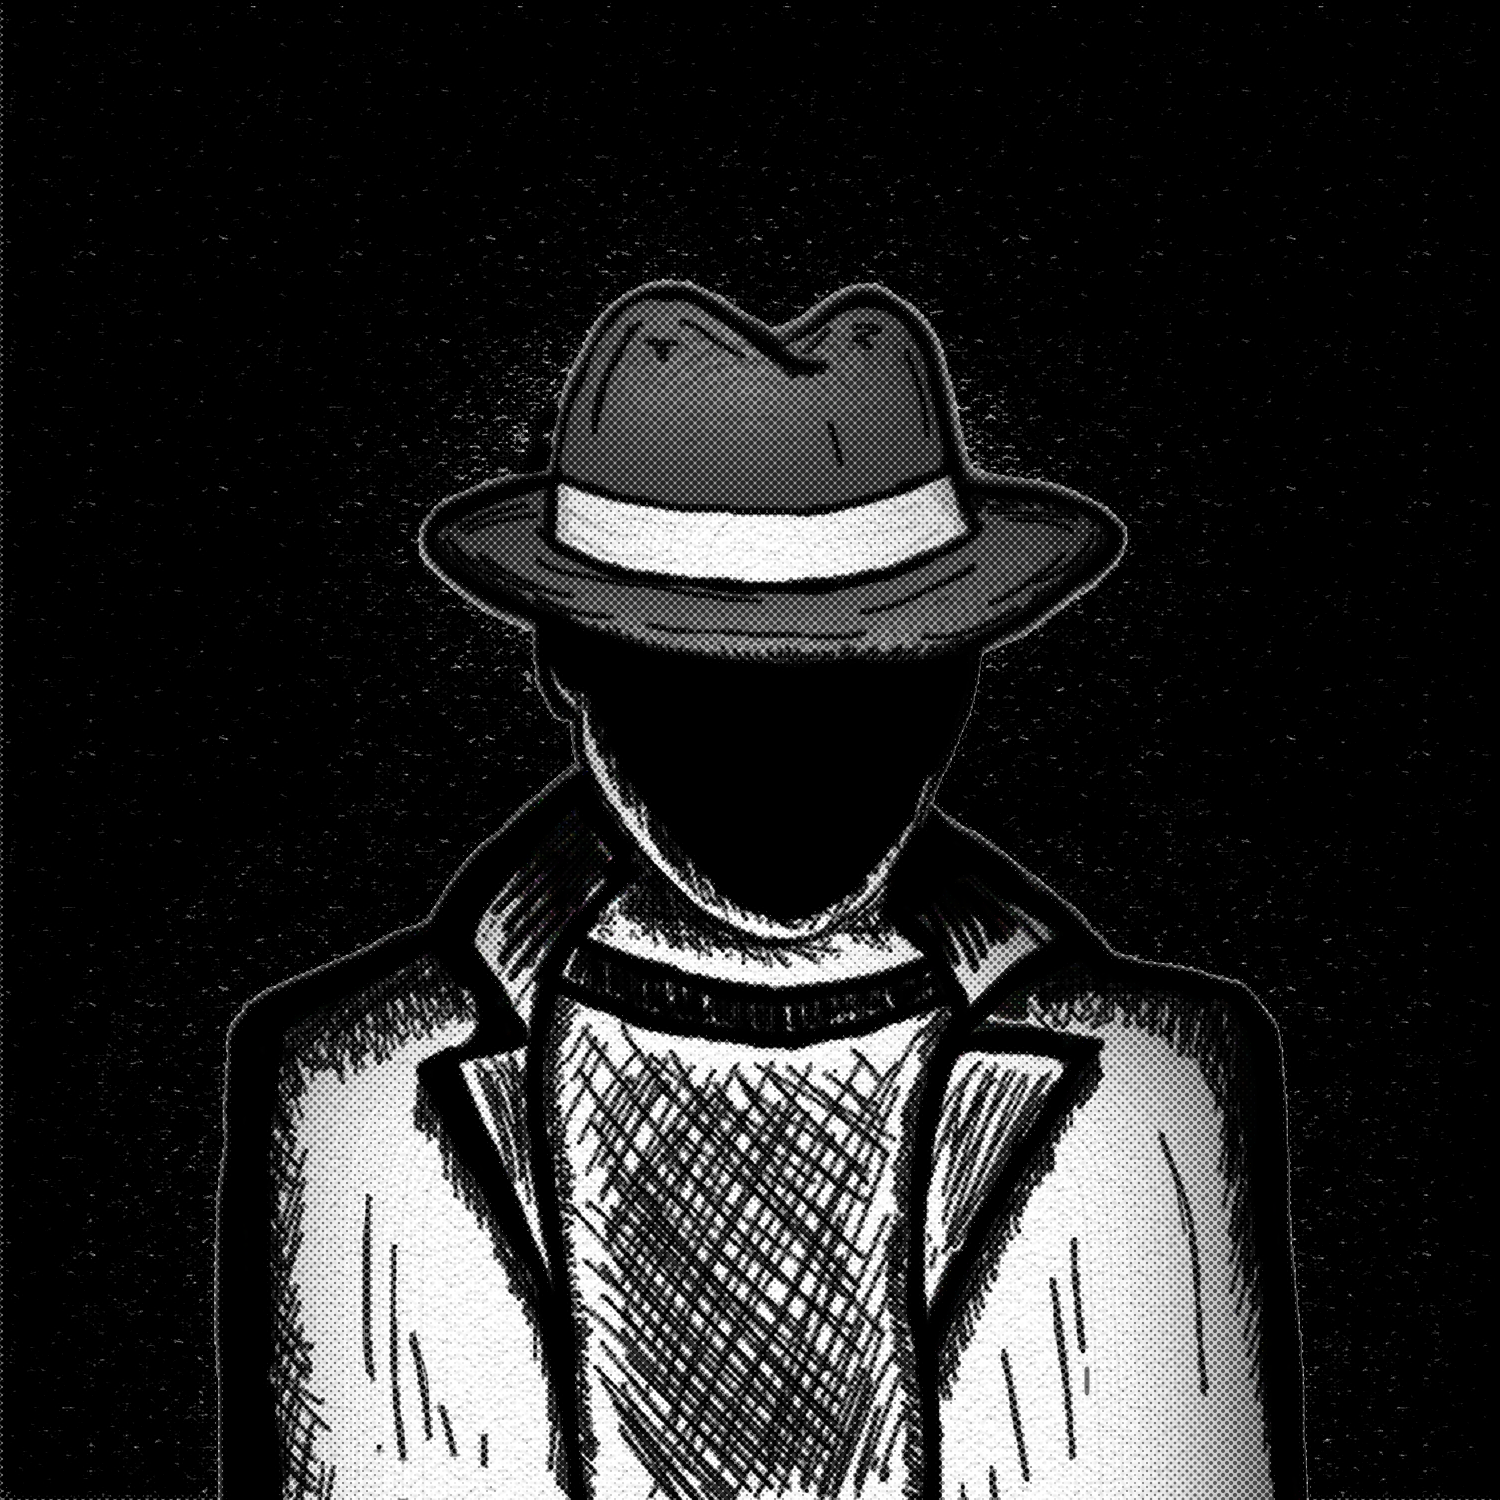
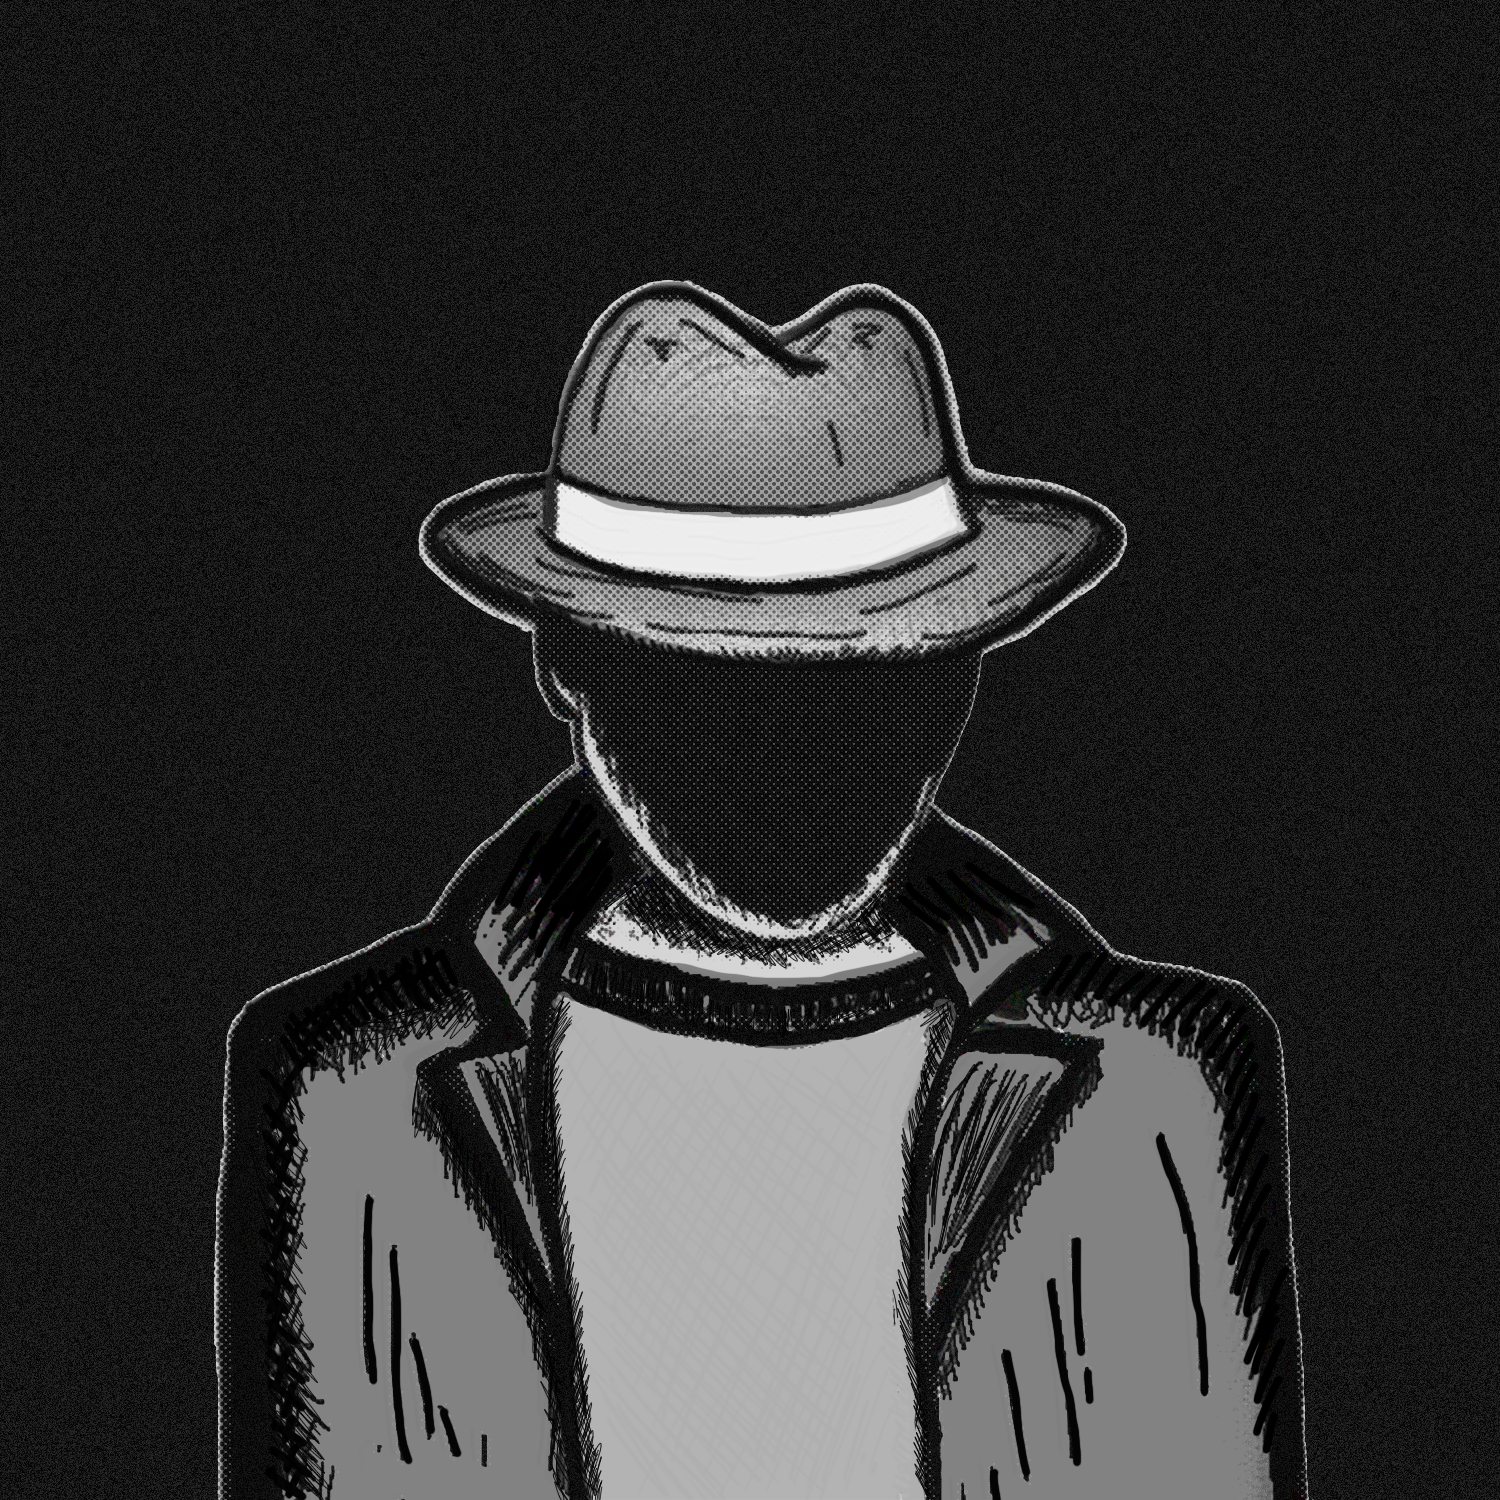
added fathykathy photo + mechanics to send it by command "/antagonist"

diff --git a/src/main/java/com/vanillastorm/telegram/TransilvaniaProjectBot.java b/src/main/java/com/vanillastorm/telegram/TransilvaniaProjectBot.java
@@ -75,11 +75,11 @@ public class TransilvaniaProjectBot extends TelegramLongPollingBot {
                                 .setChatId(chat_id)
                                 .setText(creatureStory.villainInfo());
 
-//                        String photoUrl = creatureStory.villainPhoto();
-//                        InputStream photo = ClassLoader.getSystemClassLoader().getResourceAsStream(photoUrl);
-//                        photoMessage = new SendPhoto()
-//                                .setChatId(chat_id)
-//                                .setPhoto("-", photo);
+                        String photoUrl = creatureStory.villainPhoto();
+                        InputStream photo = ClassLoader.getSystemClassLoader().getResourceAsStream(photoUrl);
+                        photoMessage = new SendPhoto()
+                                .setChatId(chat_id)
+                                .setPhoto("-", photo);
                         keyboard = fightKeyboard();
                     } else {
                         message = new SendMessage()

diff --git a/src/main/java/com/vanillastorm/gameplay/story/Story.java b/src/main/java/com/vanillastorm/gameplay/story/Story.java
@@ -271,7 +271,9 @@ public class Story {
     }
 
     public String villainPhoto() {
-        return "img/villainPhoto/" + currentVillain.getName() + ".png";
+        String villainName = currentVillain.getName().toLowerCase().replaceAll("\\s", "");
+        System.out.println(villainName);
+        return "img/villainPhoto/" + villainName + ".png";
     }
 
     // Fight
